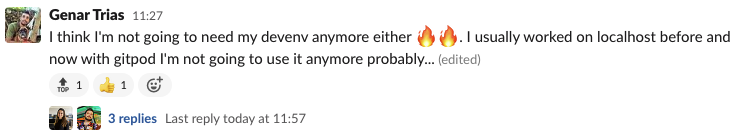
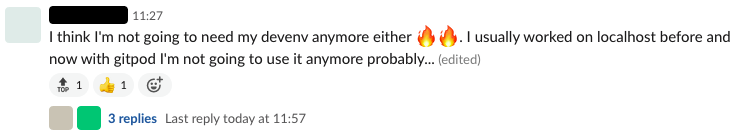
fix: add redacted screenshot to factorial (#2309)

diff --git a/src/routes/customers/factorial.md b/src/routes/customers/factorial.md
@@ -157,11 +157,11 @@ Once a developer hits the "I can do that?" moment, they start seeing the work of
 
 Eventually the messages started coming in.
 
-> Can anyone delete my devenv? Been using Gitpod for a long time now and not coming back.
-
-> I'm not going to need my devenv anymore either. I usually worked on localhost before but I'm not going to use it anymore.
-
-> I will not need my devenv anymore either, could you please delete it?
+<div class="bg-white px-4 py-2 rounded-lg">
+	<img src="/images/customers/factorial/slack-1.png" alt="Can anyone delete my devenv? Been using Gitpod for a long time now and not coming back." />
+	<img src="/images/customers/factorial/slack-2.png" alt="I'm not going to need my devenv anymore either. I usually worked on localhost before but I'm not going to use it anymore." />
+	<img src="/images/customers/factorial/slack-3.png" alt="I will not need my devenv anymore either, could you please delete it?" />
+</div>
 
 The tide had turned. 4 months after Factorial began transitioning to Gitpod, the engineers embraced the new way of working and committed to it—from varying degrees of skepticism and engagement to passionate advocates for a modern developer experience.
 
